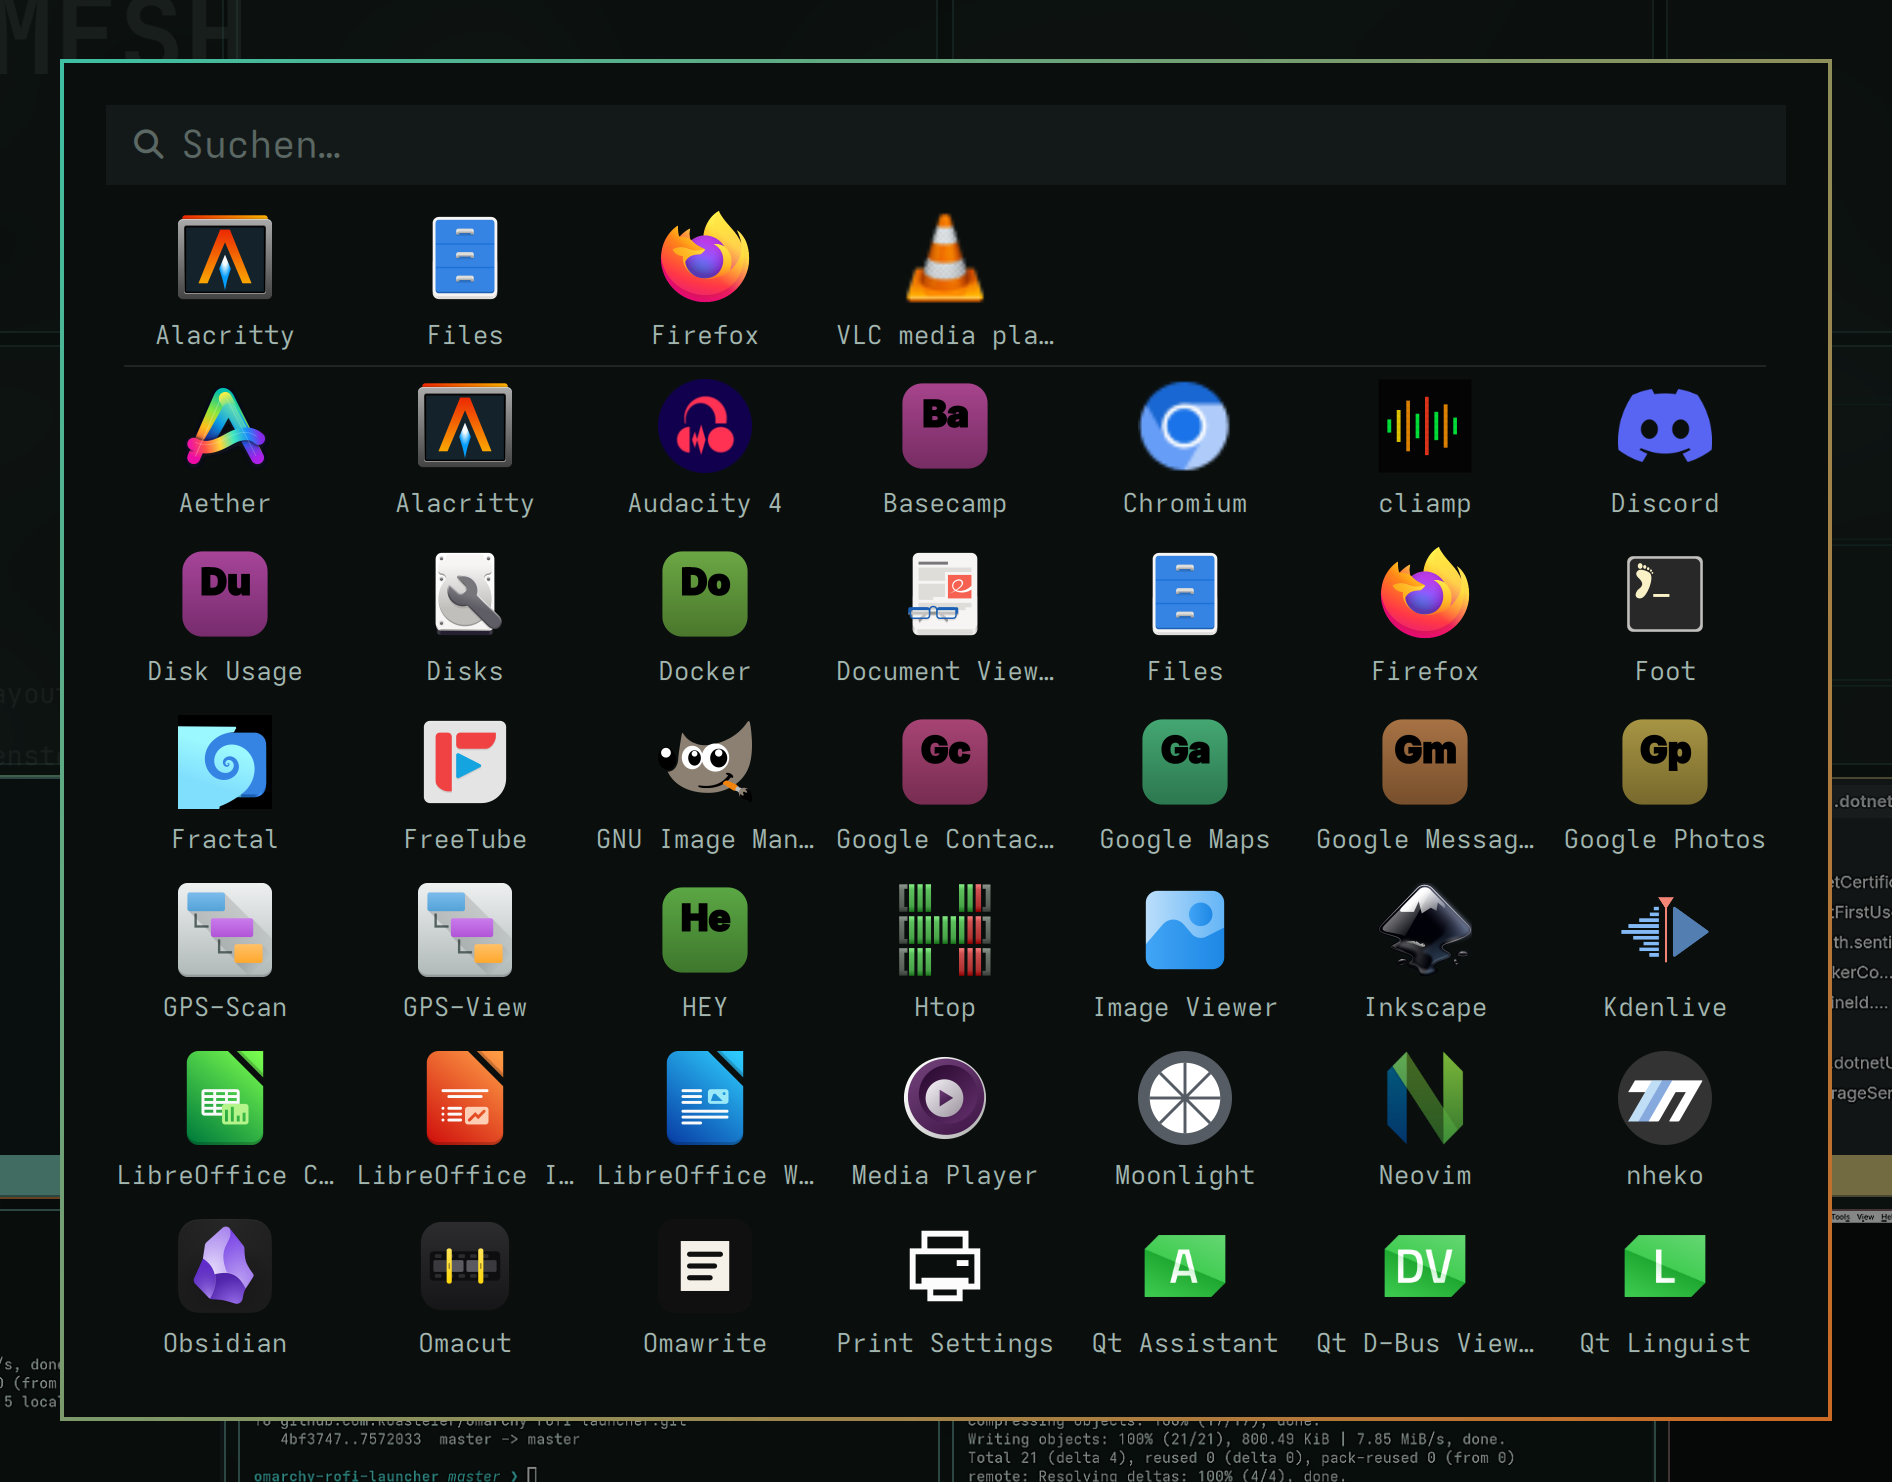
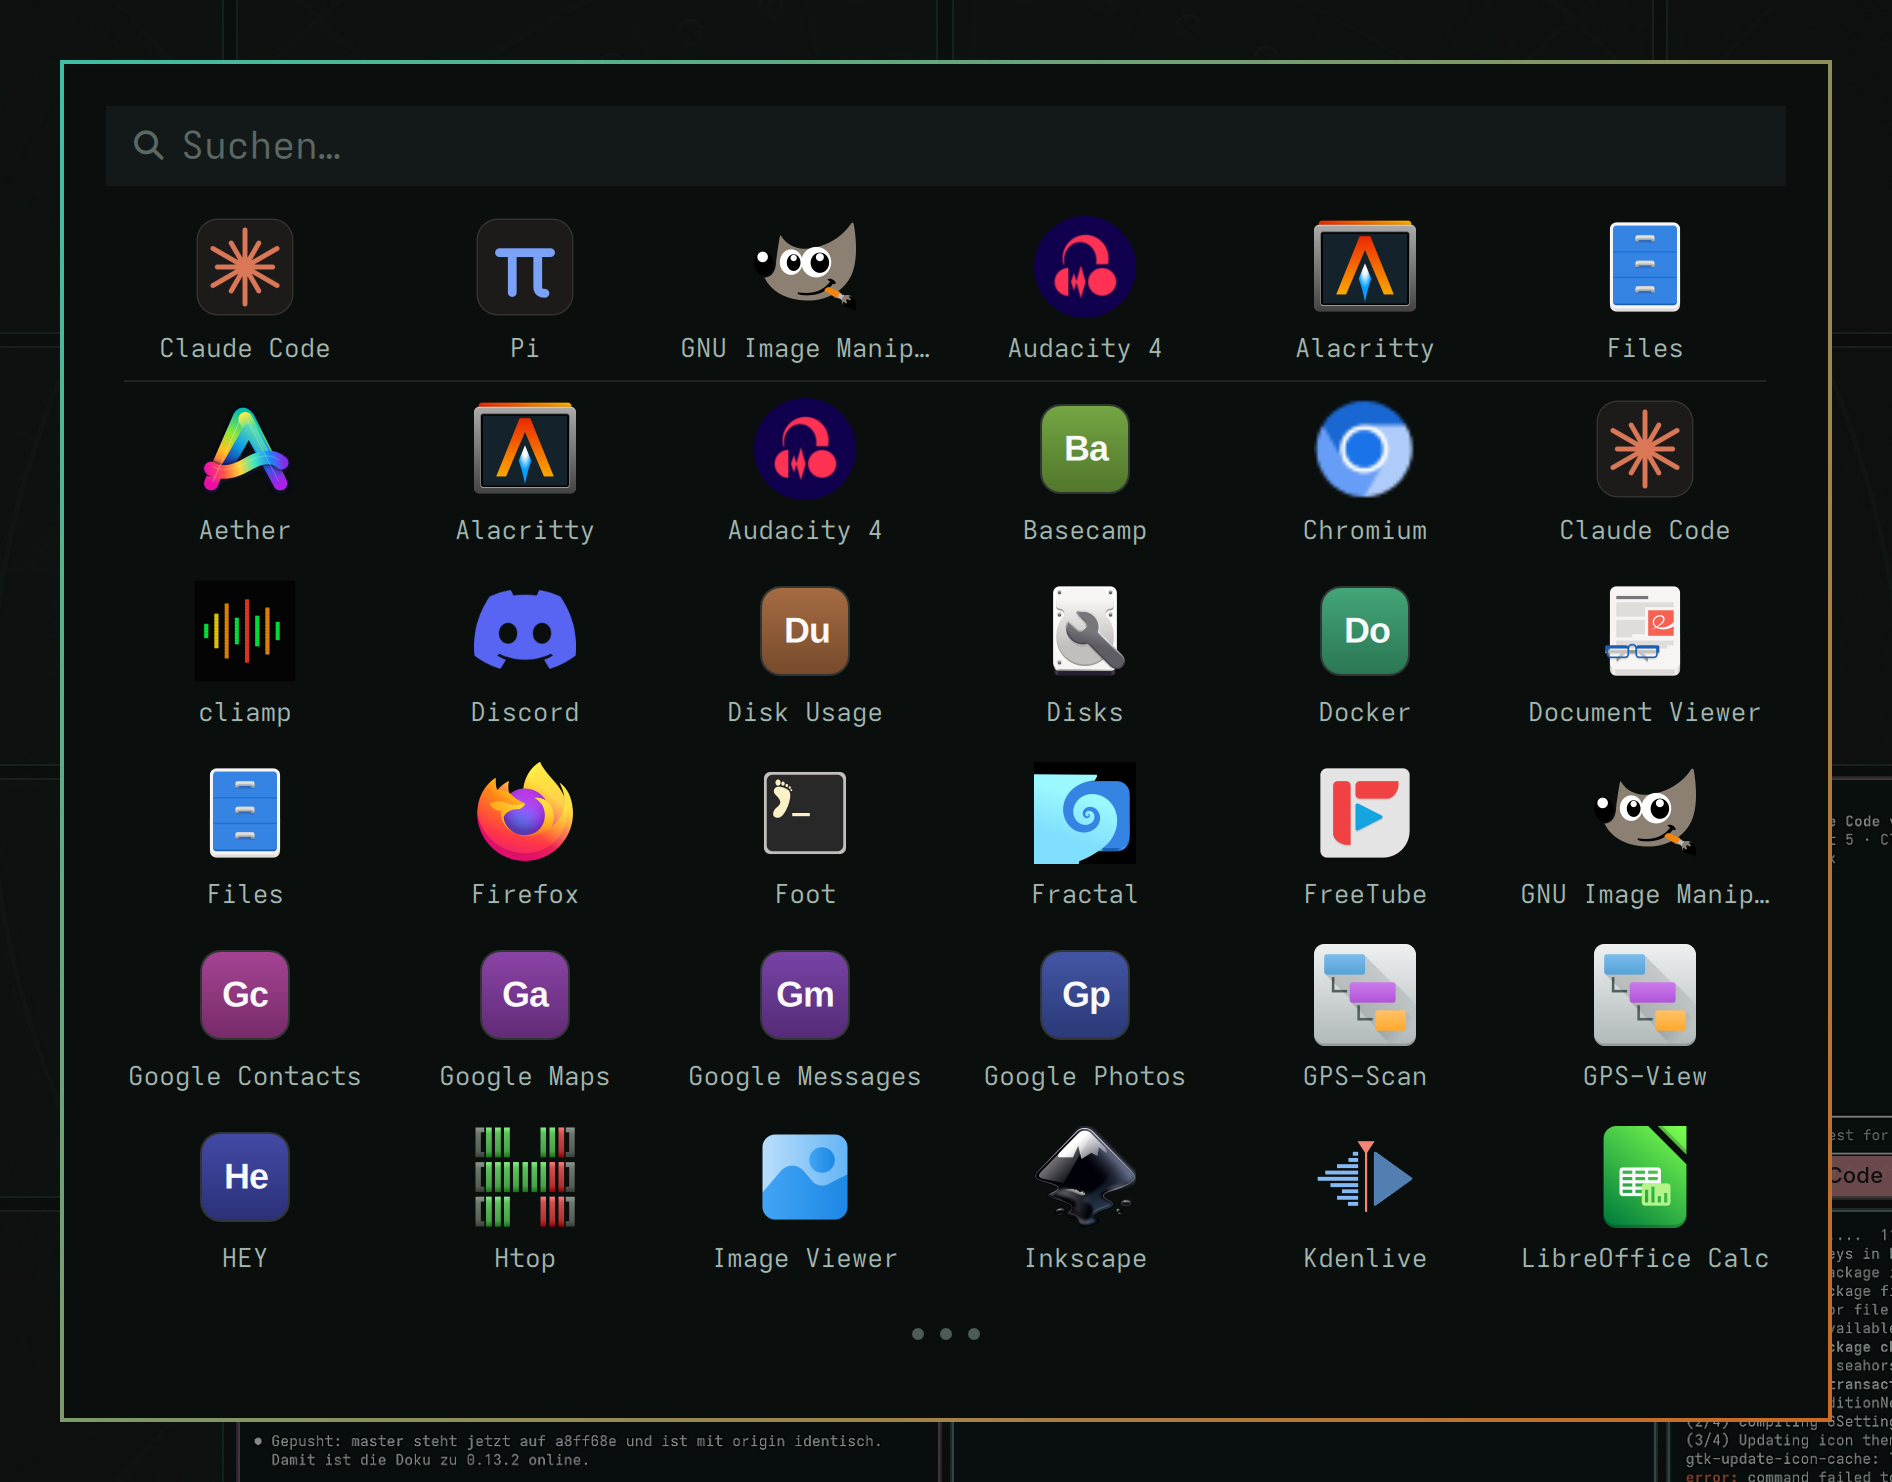
Raster 6x6 mit Punkteanzeige am unteren Rand
Das 7x7-Raster wirkte ueberladen. Bei gleicher Kartengroesse jetzt
6 Spalten und 6 Zeilen: die 7 * 72 Rasterhoehe verteilt sich auf
6 * 78 plus 36 fuer eine Punkteleiste, das Icon waechst auf 44.

Darin drei Punkte nach macOS-Vorbild, sichtbar solange unterhalb des
Ausschnitts noch Apps liegen; am Listenende und bei kurzen Trefferlisten
blenden sie aus.

diff --git a/plugin/Launchpad.qml b/plugin/Launchpad.qml
@@ -71,14 +71,21 @@ Item {
   readonly property int cornerRadius: Style.cornerRadius
   property string fontFamily: Style.font.menuFamily
 
-  // Raster: 7 Spalten, 7 sichtbare Zeilen. Die Karte ist so breit wie das
+  // Raster: 6 Spalten, 6 sichtbare Zeilen. Die Karte ist so breit wie das
   // rofi-Vorbild (rund 61 % der Bildschirmbreite); die Zellbreite ergibt sich
   // aus dem verfuegbaren Platz, damit die Spaltenzahl garantiert aufgeht -
   // Style.space() skaliert mit der Theme-Schrift, feste Werte gehen nicht auf.
-  property int columns: 7
-  property int visibleRows: 7
-  property int iconSize: Style.space(40)
-  property int cellHeight: Style.space(72)
+  //
+  // Die Karte behaelt die Masse der 7x7-Fassung: 7 * 72 = 504 verteilt sich
+  // jetzt auf 6 * 78 Rasterzeilen plus 36 fuer die Punkteleiste. Das Icon
+  // waechst mit der Zeilenhoehe (40 * 78/72), die Beschriftung nicht - so
+  // entsteht der zusaetzliche Weissraum.
+  property int columns: 6
+  property int visibleRows: 6
+  property int iconSize: Style.space(44)
+  property int cellHeight: Style.space(78)
+  // Streifen unter dem Raster fuer die "mehr da"-Punkte.
+  property int indicatorHeight: Style.space(36)
   property int contentMargin: Style.spacing.panelPadding
   property int headerHeight: Math.max(Style.space(34), Style.font.title + Style.spacing.controlPaddingY * 2)
   property int contentSpacing: Style.spacing.md
@@ -90,7 +97,7 @@ Item {
   // Rahmen UND Padding bereits.
   property int cardHeight: Math.min(panel.height - Style.gapsOut * 2,
     card.contentTopInset + card.contentBottomInset
-    + headerHeight + contentSpacing + visibleRows * cellHeight)
+    + headerHeight + contentSpacing + visibleRows * cellHeight + indicatorHeight)
 
   function open(payloadJson) {
     root.opened = true
@@ -331,7 +338,10 @@ Item {
 
           GridView {
             id: resultGrid
-            anchors.fill: parent
+            anchors.left: parent.left
+            anchors.right: parent.right
+            anchors.top: parent.top
+            height: parent.height - root.indicatorHeight
             model: displayModel
             clip: true
             cellWidth: root.cellWidth
@@ -375,7 +385,8 @@ Item {
           }
 
           Text {
-            anchors.centerIn: parent
+            anchors.horizontalCenter: parent.horizontalCenter
+            y: Math.round((resultGrid.height - height) / 2)
             visible: displayModel.count === 0
             textFormat: Text.PlainText
             text: "Keine Treffer für „" + root.filterText + "“"
@@ -383,6 +394,34 @@ Item {
             opacity: 0.7
             font.family: root.fontFamily
             font.pixelSize: Style.font.title
+          }
+
+          // Drei Punkte am unteren Rand, solange unterhalb des sichtbaren
+          // Ausschnitts noch Apps liegen - wie im macOS-Vorbild. Am Ende der
+          // Liste (und wenn alles ohnehin passt) verschwinden sie.
+          Row {
+            id: moreDots
+            anchors.horizontalCenter: parent.horizontalCenter
+            anchors.bottom: parent.bottom
+            anchors.bottomMargin: Math.round((root.indicatorHeight - height) / 2)
+            spacing: Style.space(7)
+
+            readonly property bool hasMore: resultGrid.contentHeight > resultGrid.height + 1
+              && !resultGrid.atYEnd
+            opacity: hasMore ? 1 : 0
+            visible: opacity > 0
+            Behavior on opacity { NumberAnimation { duration: 120 } }
+
+            Repeater {
+              model: 3
+              Rectangle {
+                width: Style.space(5)
+                height: width
+                radius: width / 2
+                color: root.foreground
+                opacity: 0.45
+              }
+            }
           }
         }
       }

diff --git a/README.md b/README.md
@@ -3,7 +3,7 @@
 Ein App-Raster im Stil des macOS-Launchpads als Overlay-Plugin für die
 [Omarchy](https://omarchy.org)-Shell (Omarchy 4.0 oder neuer).
 
-![Raster 7×7](docs/screenshot.png)
+![Raster 6×6](docs/screenshot.png)
 
 Das Plugin läuft im Shell-Prozess selbst (Quickshell/QML) — kein zusätzliches
 Programm, keine Fensterregeln, keine Theme-Templates. Farben, Schrift, Radien
@@ -14,9 +14,11 @@ Für ältere Omarchy-Versionen ohne Plugin-System gibt es die rofi-Fassung
 
 ## Eigenschaften
 
-- **7 × 7 Raster** mit Icon und Beschriftung; scrollt bei mehr Apps
+- **6 × 6 Raster** mit Icon und Beschriftung; scrollt bei mehr Apps
 - **Zeile „zuletzt benutzt"** ganz oben, durch eine dezente Linie abgesetzt;
   Lücken bleiben leer, die alphabetische Liste beginnt immer in Zeile 2
+- **Drei Punkte am unteren Rand**, solange weitere Apps unterhalb liegen;
+  am Listenende blenden sie aus
 - **Suche** wie im Omarchy-Menü (Treffer nach Relevanz), Suchfeld mit Lupe
 - **Maus und Tastatur**: Hover markiert, Klick startet; Pfeiltasten, `Enter`,
   `Escape` (löscht erst die Suche, dann schließt es)
@@ -61,6 +63,9 @@ MRU-Stand). Vor jedem Eingriff in `hyprland.lua` wird eine Sicherung
 Tastenkombination in `~/.config/hypr/launchpad.lua`; Spalten- und Zeilenzahl,
 Icon-Größe und Kartenbreite stehen als Properties am Anfang von
 `Launchpad.qml` (`columns`, `visibleRows`, `iconSize`, `cardWidth`).
+Die Kartenhöhe ergibt sich aus `visibleRows * cellHeight + indicatorHeight` —
+wer die Zeilenzahl ändert, passt `cellHeight` gegenläufig an, wenn die Karte
+gleich groß bleiben soll.
 Änderungen im Plugin-Ordner greifen bei Overlays erst nach
 `omarchy restart shell`.
 
